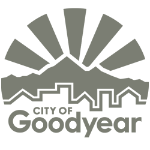
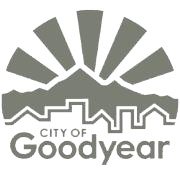
Fixed menu css

diff --git a/portfolio/Projects/Neighborhood Map/css/slide-out-menu.css b/portfolio/Projects/Neighborhood Map/css/slide-out-menu.css
@@ -18,21 +18,23 @@
 }
 
 h1.neighborhood-title {
-	font-size: 45px;
+	font-size: 35px;
 	padding: 5px;
+	margin: 0;
 	font-family: 'Gloria Hallelujah', cursive;
-	line-height: 55px;
+	line-height: 40px;
 }
 
 ul.sidebar-nav {
 	font-size: 20px;
 	list-style: none;
 	padding: 15px;
+	padding: 2px;
 }
 
 ul.sidebar-nav li {
-	padding-bottom: 10px;
-	padding-top: 10px;
+	padding-bottom: 5px;
+	padding-top: 5px;
 	text-align: center;
 	border-top: 1px solid white;
 	cursor: pointer;
@@ -41,6 +43,7 @@ ul.sidebar-nav li {
 
 ul.sidebar-nav li:first-of-type {
 	border: none;
+	padding-top: 2px;
 }
 
 input#search-place {
@@ -60,14 +63,7 @@ input#search-place {
 input#search-place:focus {
     border: 3px solid #555;
 }
-/* .input-group span {
-	color: black;
-	border: 3px solid #ccc;
-	border-right: none;
-	border-radius: 2px 0 2px 2px;
-	height: 37px;
-	background-color: #DCDCDC;
-} */
+
 #search-form {
 	padding-left: 10px;
 	padding-right: 10px;
@@ -76,6 +72,6 @@ input#search-place:focus {
 .city-logo img {
 	display: block;
 	margin: auto;
-	max-height 100px;
+	max-width: 100px;
 }
 

diff --git a/portfolio/Projects/Neighborhood Map/js/app.js b/portfolio/Projects/Neighborhood Map/js/app.js
@@ -14,7 +14,7 @@ var viewModel = function() {
     var self = this;
 
     //Variable used to toggle the slide out menu
-    self.showTheMenu = ko.observable(true);
+    self.showTheMenu = ko.observable(false);
 
     //variables to store the marker locations as well as the li's in the slide out menu
 

diff --git a/portfolio/Projects/Neighborhood Map/js/startingOver.js b/portfolio/Projects/Neighborhood Map/js/startingOver.js
@@ -1,5 +1,5 @@
 //Initialize Some Global Variables To Be Used Later
-var showTheMenu = ko.observable(false);
+var showTheMenu = ko.observable(true);
 var map;
 var markers = [];
 
